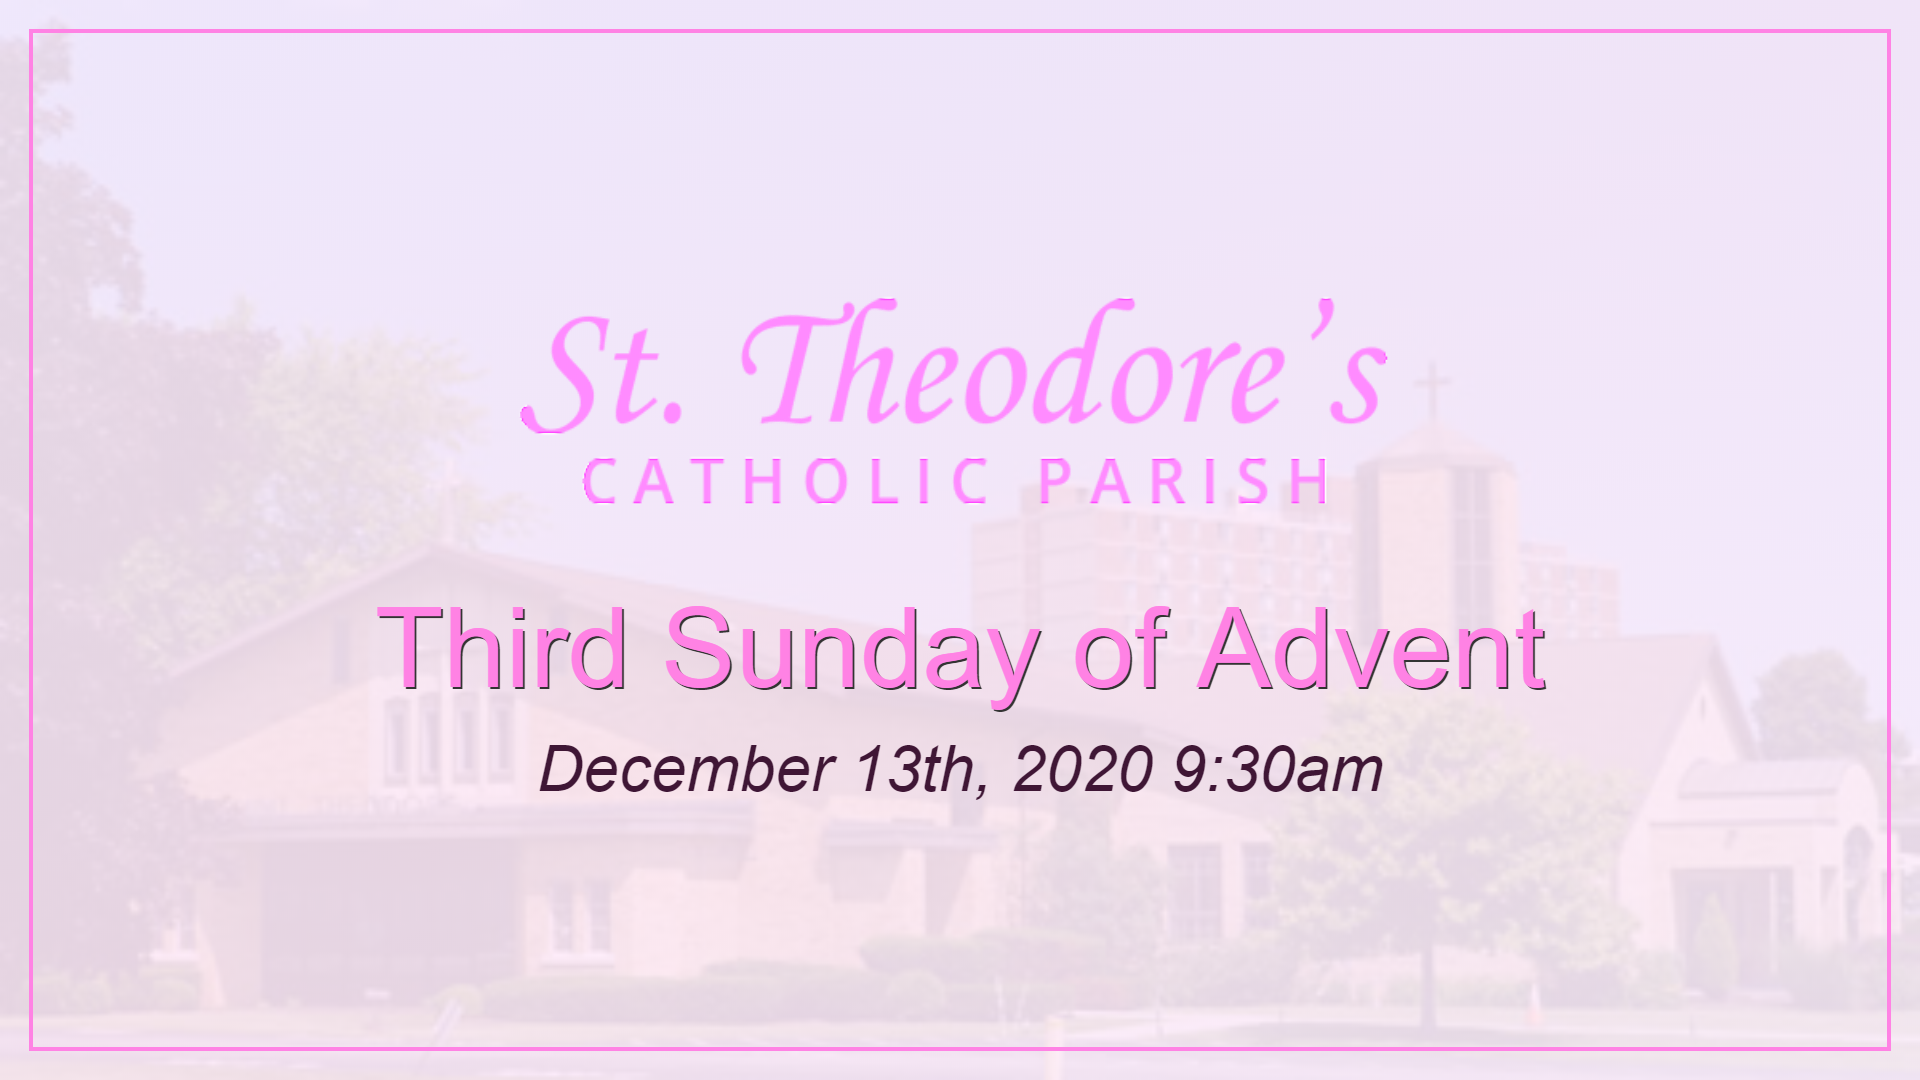
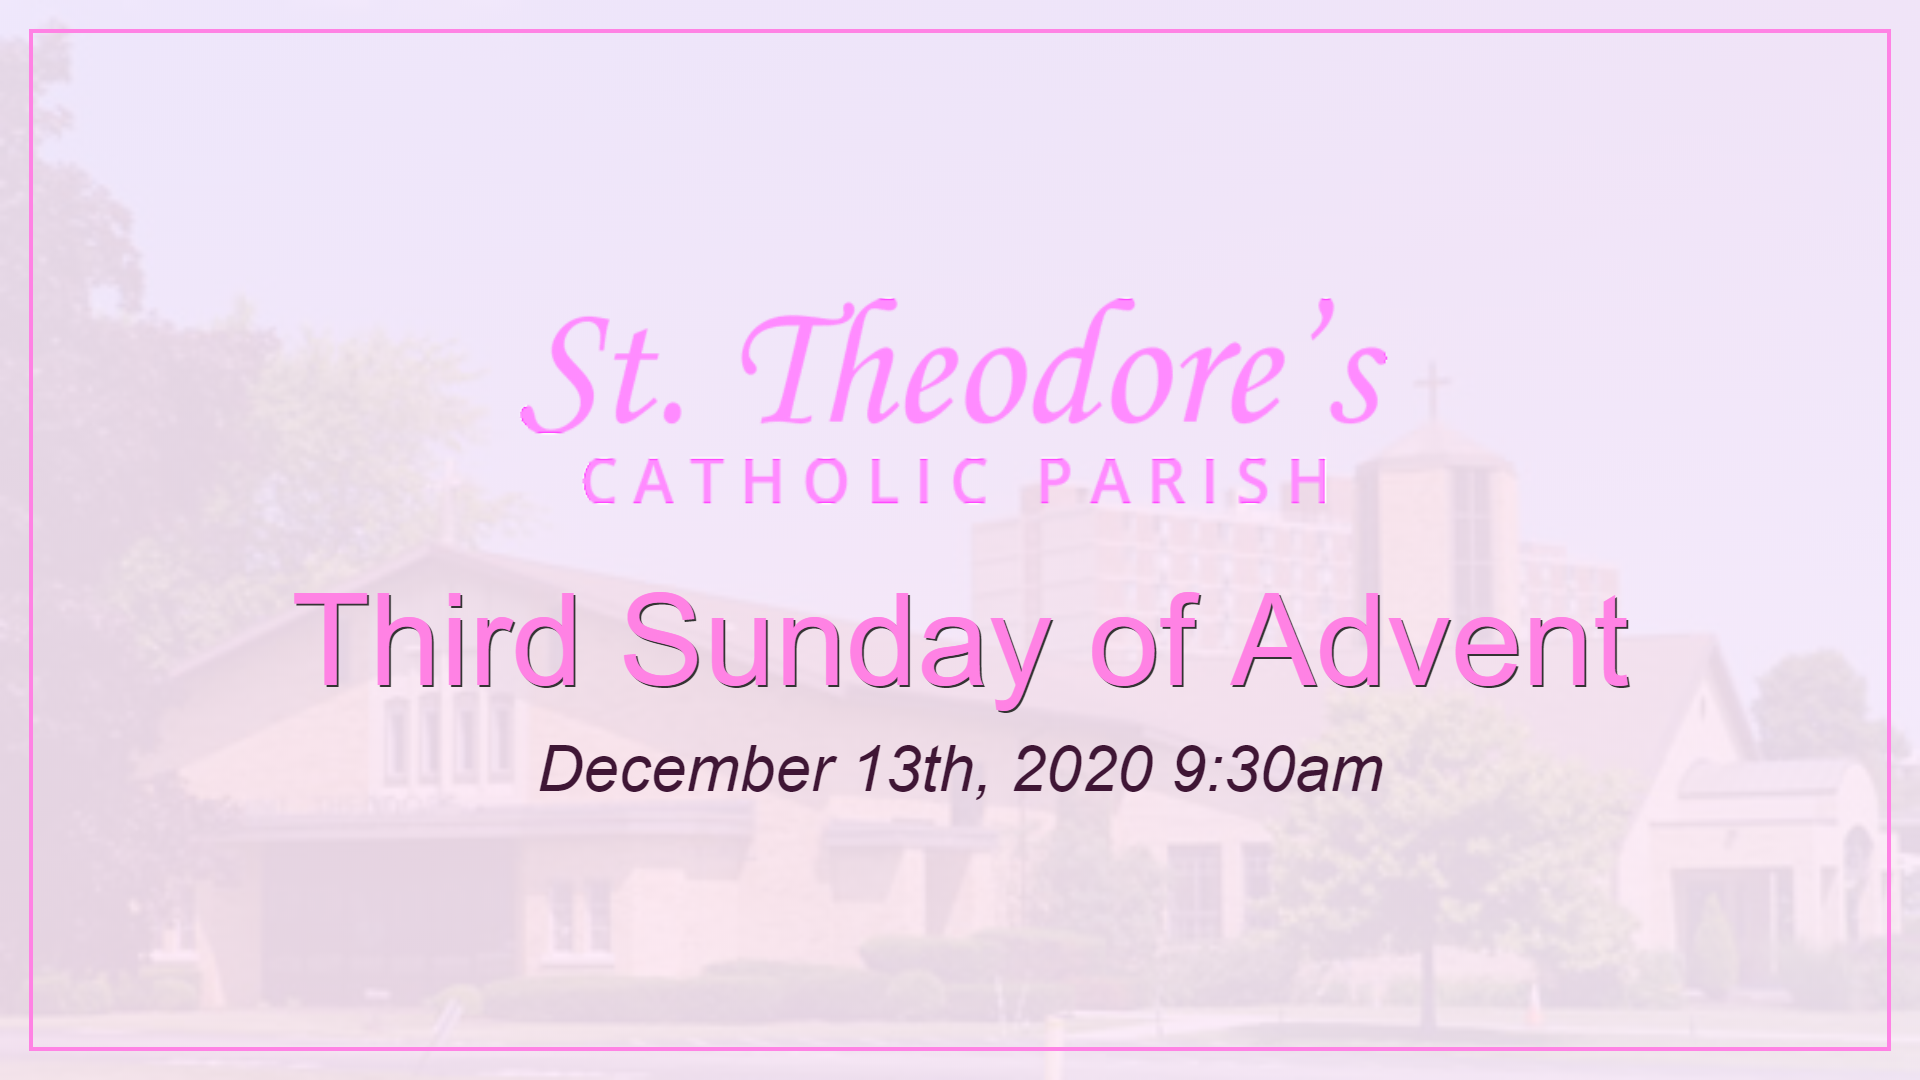
Updated styling of 12/13/2020 mass.

Changed region(s): [[0.1562, 0.55, 0.8438, 0.6722]]

diff --git a/html/2020-12-13/styles.scss b/html/2020-12-13/styles.scss
@@ -61,7 +61,7 @@
     }
 }
 
-@media (min-height: 900px) {
+@media (min-height: 900px) and (min-width: 900px) {
     :root {
         --fs-400: 2rem;
         --fs-500: 2.4rem;
@@ -71,7 +71,7 @@
     .title-page {
         --fs-400: 4rem;
         --fs-500: 5rem;
-        --fs-600: 7rem;
+        --fs-600: 8rem;
         --title-image-height: 15rem;
         --title-image-width: 60rem;
     }
@@ -193,7 +193,7 @@ p:not(:last-child) {
 
     &__image {
         filter: var(--image-filter);
-        margin-bottom: 4rem;
+        margin-bottom: 3rem;
 
         img {
             height: var(--title-image-height);

diff --git a/html/2020-12-13/styles.css b/html/2020-12-13/styles.css
@@ -42,7 +42,7 @@
   }
 }
 
-@media (min-height: 900px) {
+@media (min-height: 900px) and (min-width: 900px) {
   :root {
     --fs-400: 2rem;
     --fs-500: 2.4rem;
@@ -51,7 +51,7 @@
   .title-page {
     --fs-400: 4rem;
     --fs-500: 5rem;
-    --fs-600: 7rem;
+    --fs-600: 8rem;
     --title-image-height: 15rem;
     --title-image-width: 60rem;
   }
@@ -184,7 +184,7 @@ p:not(:last-child) {
 .title-page__image {
   -webkit-filter: var(--image-filter);
           filter: var(--image-filter);
-  margin-bottom: 4rem;
+  margin-bottom: 3rem;
 }
 
 .title-page__image img {
